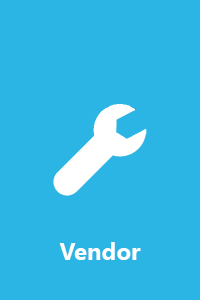
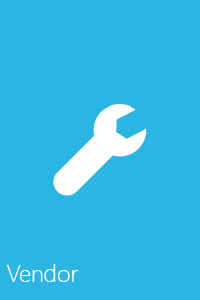
GUI updates (4)
More minor cleanups

Changed region(s): [[0.3, 0.81, 0.72, 0.87], [0.03, 0.87, 0.39, 0.96]]

diff --git a/Project/src/project/GUI.java b/Project/src/project/GUI.java
@@ -4,8 +4,6 @@
  */
 package project;
 
-import java.awt.Toolkit;
-import java.sql.SQLException;
 import java.sql.*;
 import java.util.ArrayList;
 import java.util.HashMap;
@@ -112,9 +110,9 @@ public class GUI extends javax.swing.JFrame {
         makerLabel.setForeground(new java.awt.Color(0, 153, 204));
         makerLabel.setText("Maker");
 
-        carMakerDropdown.setFont(new java.awt.Font("Segoe UI", 0, 11)); // NOI18N
+        carMakerDropdown.setFont(new java.awt.Font("Segoe UI Light", 0, 12)); // NOI18N
         carMakerDropdown.setMaximumRowCount(16);
-        carMakerDropdown.setModel(new javax.swing.DefaultComboBoxModel(new String[] { "BUK BUICK", "CAD CADILLAC", "CHE CHEVROLET", "CRY CHRYSLER", "FDT FORD LIGHT TRUCK AND VAN", "FOR FORD", "GMC CHEVROLET & GMC TRUCK & VAN", "INT INTERNATIONAL TRUCK (I.H.C.)", "ISU ISUZU", "LIN LINCOLN", "MZD MAZDA", "OLD OLDSMOBILE", "POR PORSCHE", "REN RENAULT", "SAB SAAB", "SUB SUBARU", "TOY TOYOTA", "UPS UPS", "VOL VOLKSWAGEN", " " }));
+        carMakerDropdown.setModel(new javax.swing.DefaultComboBoxModel(new String[] { "BUK BUICK", "CAD CADILLAC", "CHE CHEVROLET", "CRY CHRYSLER", "FDT FORD LIGHT TRUCK AND VAN", "FOR FORD", "GMC CHEVROLET & GMC TRUCK & VAN", "INT INTERNATIONAL TRUCK (I.H.C.)", "ISU ISUZU", "LIN LINCOLN", "MZD MAZDA", "OLD OLDSMOBILE", "POR PORSCHE", "REN RENAULT", "SAB SAAB", "SUB SUBARU", "TOY TOYOTA", "UPS UPS", "VOL VOLKSWAGEN" }));
         carMakerDropdown.setToolTipText("");
         carMakerDropdown.setBorder(null);
         carMakerDropdown.addActionListener(new java.awt.event.ActionListener() {
@@ -127,7 +125,7 @@ public class GUI extends javax.swing.JFrame {
         modelLabel.setForeground(new java.awt.Color(0, 153, 204));
         modelLabel.setText("Model");
 
-        carModelDropdown.setFont(new java.awt.Font("Segoe UI", 0, 11)); // NOI18N
+        carModelDropdown.setFont(new java.awt.Font("Segoe UI Light", 0, 12)); // NOI18N
         carModelDropdown.setMaximumRowCount(16);
         carModelDropdown.setModel(new javax.swing.DefaultComboBoxModel(new String[] { "- Select model -" }));
         carModelDropdown.setToolTipText("");
@@ -151,6 +149,7 @@ public class GUI extends javax.swing.JFrame {
         carpartnumberLabel.setForeground(new java.awt.Color(0, 153, 204));
         carpartnumberLabel.setText("Part number");
 
+        yearDropdown.setFont(new java.awt.Font("Segoe UI Light", 0, 12)); // NOI18N
         yearDropdown.setModel(new javax.swing.DefaultComboBoxModel(new String[] { "- Select year -" }));
         yearDropdown.setToolTipText("");
         yearDropdown.setEnabled(false);
@@ -160,6 +159,7 @@ public class GUI extends javax.swing.JFrame {
             }
         });
 
+        engineDropDown.setFont(new java.awt.Font("Segoe UI Light", 0, 12)); // NOI18N
         engineDropDown.setModel(new javax.swing.DefaultComboBoxModel(new String[] { "- Select engine -" }));
         engineDropDown.setToolTipText("");
         engineDropDown.setEnabled(false);
@@ -169,6 +169,7 @@ public class GUI extends javax.swing.JFrame {
             }
         });
 
+        partnumberdropdown.setFont(new java.awt.Font("Segoe UI Light", 0, 12)); // NOI18N
         partnumberdropdown.setModel(new javax.swing.DefaultComboBoxModel(new String[] { "- Select part number -", " " }));
         partnumberdropdown.addActionListener(new java.awt.event.ActionListener() {
             public void actionPerformed(java.awt.event.ActionEvent evt) {
@@ -295,14 +296,14 @@ public class GUI extends javax.swing.JFrame {
         searchbyLabel.setText("Search by");
         homeScreenPage.add(searchbyLabel, new org.netbeans.lib.awtextra.AbsoluteConstraints(90, 10, -1, -1));
 
-        carmodelButton.setIcon(new javax.swing.ImageIcon(getClass().getResource("/images/Car Chooser.jpg"))); // NOI18N
+        carmodelButton.setIcon(new javax.swing.ImageIcon(getClass().getResource("/images/Car Model.jpg"))); // NOI18N
         carmodelButton.setBorder(null);
         carmodelButton.setBorderPainted(false);
         carmodelButton.setMargin(new java.awt.Insets(0, 0, 0, 0));
         carmodelButton.setMaximumSize(new java.awt.Dimension(200, 300));
         carmodelButton.setMinimumSize(new java.awt.Dimension(200, 300));
         carmodelButton.setPreferredSize(new java.awt.Dimension(200, 300));
-        carmodelButton.setRolloverIcon(new javax.swing.ImageIcon(getClass().getResource("/images/Car Chooser Hover.jpg"))); // NOI18N
+        carmodelButton.setRolloverIcon(new javax.swing.ImageIcon(getClass().getResource("/images/Car Model Hover.jpg"))); // NOI18N
         carmodelButton.addActionListener(new java.awt.event.ActionListener() {
             public void actionPerformed(java.awt.event.ActionEvent evt) {
                 carmodelButtonActionPerformed(evt);
@@ -344,11 +345,6 @@ public class GUI extends javax.swing.JFrame {
         vendorLabel.setFont(new java.awt.Font("Segoe UI Light", 0, 30)); // NOI18N
         vendorLabel.setForeground(new java.awt.Color(153, 153, 153));
         vendorLabel.setText("Choose By Vendor");
-        vendorLabel.addMouseListener(new java.awt.event.MouseAdapter() {
-            public void mouseClicked(java.awt.event.MouseEvent evt) {
-                vendorLabelMouseClicked(evt);
-            }
-        });
         chooseByVendor.add(vendorLabel, new org.netbeans.lib.awtextra.AbsoluteConstraints(53, 0, 240, 50));
 
         partnumberLabel.setFont(new java.awt.Font("Segoe UI Light", 0, 18)); // NOI18N
@@ -406,7 +402,7 @@ public class GUI extends javax.swing.JFrame {
         vendordropdownLabel.setText("Vendor");
         chooseByVendor.add(vendordropdownLabel, new org.netbeans.lib.awtextra.AbsoluteConstraints(10, 50, -1, -1));
 
-        vendorDropdown.setFont(new java.awt.Font("Segoe UI", 0, 11)); // NOI18N
+        vendorDropdown.setFont(new java.awt.Font("Segoe UI Light", 0, 12)); // NOI18N
         vendorDropdown.setMaximumRowCount(16);
         vendorDropdown.setModel(new javax.swing.DefaultComboBoxModel(new String[] { "- Select vendor -", "RDIMARS", "RDIMBEH", "RDIMDAN", "RDIMMOD" }));
         vendorDropdown.setToolTipText("");
@@ -418,6 +414,7 @@ public class GUI extends javax.swing.JFrame {
         });
         chooseByVendor.add(vendorDropdown, new org.netbeans.lib.awtextra.AbsoluteConstraints(10, 80, 241, -1));
 
+        partNumberDropdown.setFont(new java.awt.Font("Segoe UI Light", 0, 12)); // NOI18N
         partNumberDropdown.setModel(new javax.swing.DefaultComboBoxModel(new String[] { "- Select part number -" }));
         partNumberDropdown.setToolTipText("");
         partNumberDropdown.setEnabled(false);
@@ -578,9 +575,6 @@ public class GUI extends javax.swing.JFrame {
             }
         }
     }//GEN-LAST:event_partNumberDropdownActionPerformed
-
-    private void vendorLabelMouseClicked(java.awt.event.MouseEvent evt) {//GEN-FIRST:event_vendorLabelMouseClicked
-    }//GEN-LAST:event_vendorLabelMouseClicked
 
     private void partnumberdropdownActionPerformed(java.awt.event.ActionEvent evt) {//GEN-FIRST:event_partnumberdropdownActionPerformed
 
@@ -749,39 +743,13 @@ public class GUI extends javax.swing.JFrame {
      * @param args the command line arguments
      */
     public static void main(String args[]) {
-//        try {
-//            
-//        } catch (SQLException ex) {
-//            Logger.getLogger(GUI.class.getName()).log(Level.SEVERE, null, ex);
-//        }
-        /*
-         * Set the Nimbus look and feel
-         */
-        //<editor-fold defaultstate="collapsed" desc=" Look and feel setting code (optional) ">
-        /*
-         * If Nimbus (introduced in Java SE 6) is not available, stay with the
-         * default look and feel. For details see
-         * http://download.oracle.com/javase/tutorial/uiswing/lookandfeel/plaf.html
-         */
         try {
-            /*
-             * for (javax.swing.UIManager.LookAndFeelInfo info :
-             * javax.swing.UIManager.getInstalledLookAndFeels()) { if
-             * ("Nimbus".equals(info.getName())) {
-             * javax.swing.UIManager.setLookAndFeel(info.getClassName()); break;
-             * } }
-             */
             UIManager.setLookAndFeel(UIManager.getSystemLookAndFeelClassName());
-        } catch (ClassNotFoundException ex) {
-            java.util.logging.Logger.getLogger(GUI.class.getName()).log(java.util.logging.Level.SEVERE, null, ex);
-        } catch (InstantiationException ex) {
-            java.util.logging.Logger.getLogger(GUI.class.getName()).log(java.util.logging.Level.SEVERE, null, ex);
-        } catch (IllegalAccessException ex) {
-            java.util.logging.Logger.getLogger(GUI.class.getName()).log(java.util.logging.Level.SEVERE, null, ex);
-        } catch (javax.swing.UnsupportedLookAndFeelException ex) {
+        } catch (ClassNotFoundException | InstantiationException | 
+                IllegalAccessException | 
+                javax.swing.UnsupportedLookAndFeelException ex) {
             java.util.logging.Logger.getLogger(GUI.class.getName()).log(java.util.logging.Level.SEVERE, null, ex);
         }
-        //</editor-fold>
 
         /*
          * Create and display the form
